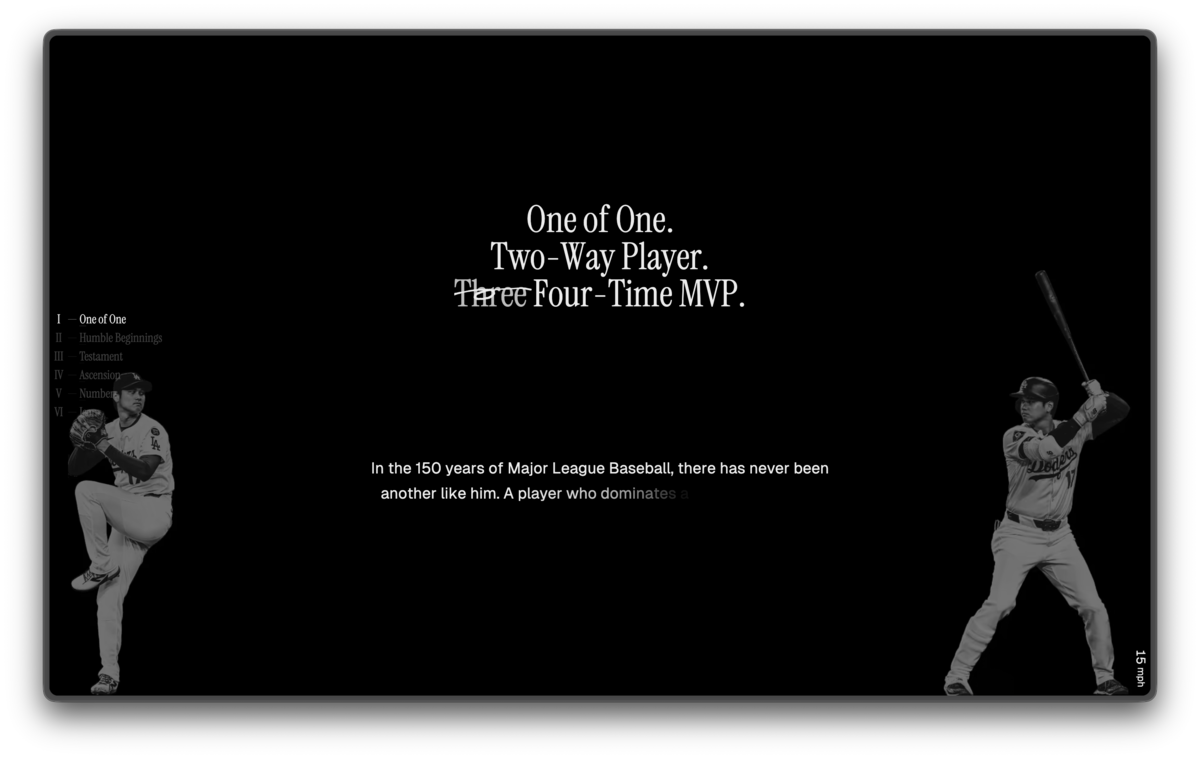
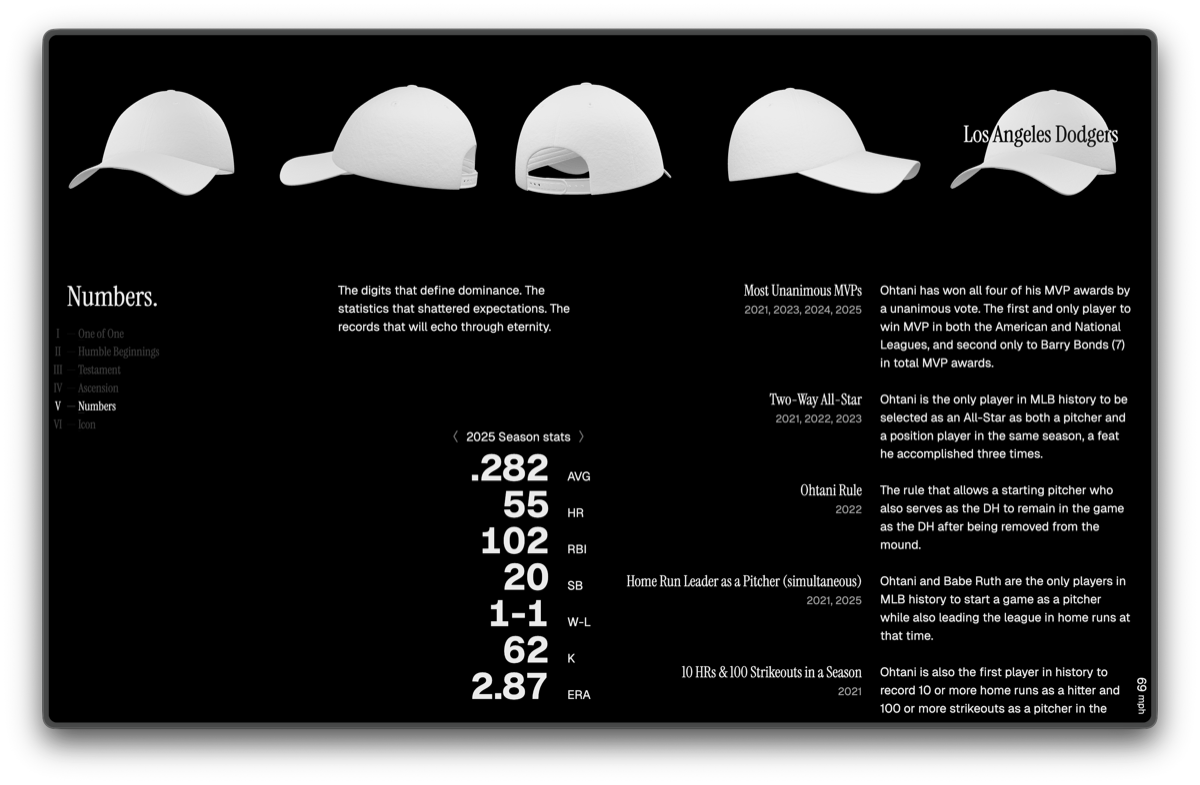
update featured

diff --git a/src/lib/constants.ts b/src/lib/constants.ts
@@ -23,17 +23,17 @@ const projects: {
 	},
 	{
 		featured: true,
-		title: 'MLB Live Scorebug',
-		href: 'https://sb3.theohtani.com',
-		image: sb3,
-		repo: 'sb3.theohtani.com',
-	},
-	{
-		featured: true,
-		title: 'MLB Stats API Playground',
+		title: 'MLB Scorebug & API Playground (2026)',
 		href: 'https://mlb.theohtani.com',
 		image: mlb,
 		repo: 'mlb',
+	},
+	{
+		// featured: true,
+		title: 'MLB Scorebug (2025)',
+		href: 'https://sb3.theohtani.com',
+		image: sb3,
+		repo: 'sb3.theohtani.com',
 	},
 	{
 		// featured: true,
@@ -43,7 +43,7 @@ const projects: {
 		repo: 'sanitypress',
 	},
 	{
-		// featured: true,
+		featured: true,
 		title: 'The Ohtani',
 		href: 'https://theohtani.com',
 		image: theOhtani,
@@ -84,6 +84,10 @@ const projects: {
 		title: 'Shopify App Comparer',
 		href: 'https://shopify-compare.vercel.app',
 		repo: 'mitchuman/shopify-compare-apps',
+	},
+	{
+		title: 'Midjourney',
+		href: 'https://www.midjourney.com/@nuotsu',
 	},
 	{
 		// featured: true,
@@ -234,6 +238,6 @@ export const links: { label: string; href: string }[] = [
 	{ label: 'GitHub', href: 'https://github.com/nuotsu' },
 	{ label: 'LinkedIn', href: 'https://linkedin.com/in/nuotsu' },
 	{ label: 'X', href: 'https://x.com/marutchell' },
-	{ label: 'Midjourney', href: 'https://www.midjourney.com/@nuotsu' },
 	{ label: 'Email', href: 'mailto:mitchell@nuotsu.dev' },
+	{ label: 'What\s my rate?', href: 'https://quote.nuotsu.dev' },
 ]

diff --git a/src/ui/header.svelte b/src/ui/header.svelte
@@ -1,5 +1,21 @@
-<header class="lines-x flex justify-between gap-ch">
-	<a href="/">nuotsu</a>
+<script lang="ts">
+	// prettier-ignore
+	const ascii =
+`                                      .                        
+                                    .o8                        
+ooo. .oo.   oooo  oooo   .ooooo.  .o888oo  .oooo.o oooo  oooo  
+\`888P"Y88b  \`888  \`888  d88' \`88b   888   d88(  "8 \`888  \`888  
+ 888   888   888   888  888   888   888   \`"Y88b.   888   888  
+ 888   888   888   888  888   888   888 . o.  )88b  888   888  
+o888o o888o  \`V88V"V8P' \`Y8bod8P'   "888" 8""888P'  \`V88V"V8P' `
+</script>
+
+<header
+	class="lines-x flex flex-wrap items-end justify-between gap-ch leading-none"
+>
+	<a href="/" class="text-[5px] font-bold">
+		<pre>{ascii}</pre>
+	</a>
 
 	<span>Mitchell Christ</span>
 </header>

diff --git a/src/lib/console.ts b/src/lib/console.ts
@@ -1,11 +1,13 @@
 import { dev } from '$app/environment'
 
 if (!dev)
-	console.log(`
-                           888                      
+	// prettier-ignore
+	console.log(
+`                           888                      
 88888b.  888  888  .d88b.  888888 .d8888b  888  888 
 888 "88b 888  888 d88""88b 888    88K      888  888 
 888  888 888  888 888  888 888    "Y8888b. 888  888 
 888  888 Y88b 888 Y88..88P Y88b.       X88 Y88b 888 
 888  888  "Y88888  "Y88P"   "Y888  88888P'  "Y88888 
-`)
+`
+)

diff --git a/src/ui/sections/featured.svelte b/src/ui/sections/featured.svelte
@@ -19,7 +19,7 @@
 	{#each featured as { title, href, image, repo }, i}
 		<article class="relative grid items-end sm:grid-cols-2">
 			<h3>
-				<a class="flex flex-wrap items-center gap-x-ch sm:pl-ch" {href}>
+				<a class="flex items-center gap-x-ch sm:pl-ch" {href}>
 					<span class="line-clamp-1 grow break-all">{title}</span>
 
 					{#if repo}

diff --git a/src/ui/sections/projects.svelte b/src/ui/sections/projects.svelte
@@ -26,5 +26,5 @@
 		{/each}
 	</ul>
 
-	<SourceCode file="src/ui/sections/projects.svelte" lines={23} />
+	<SourceCode file="src/ui/sections/projects.svelte" lines={25} />
 </section>
